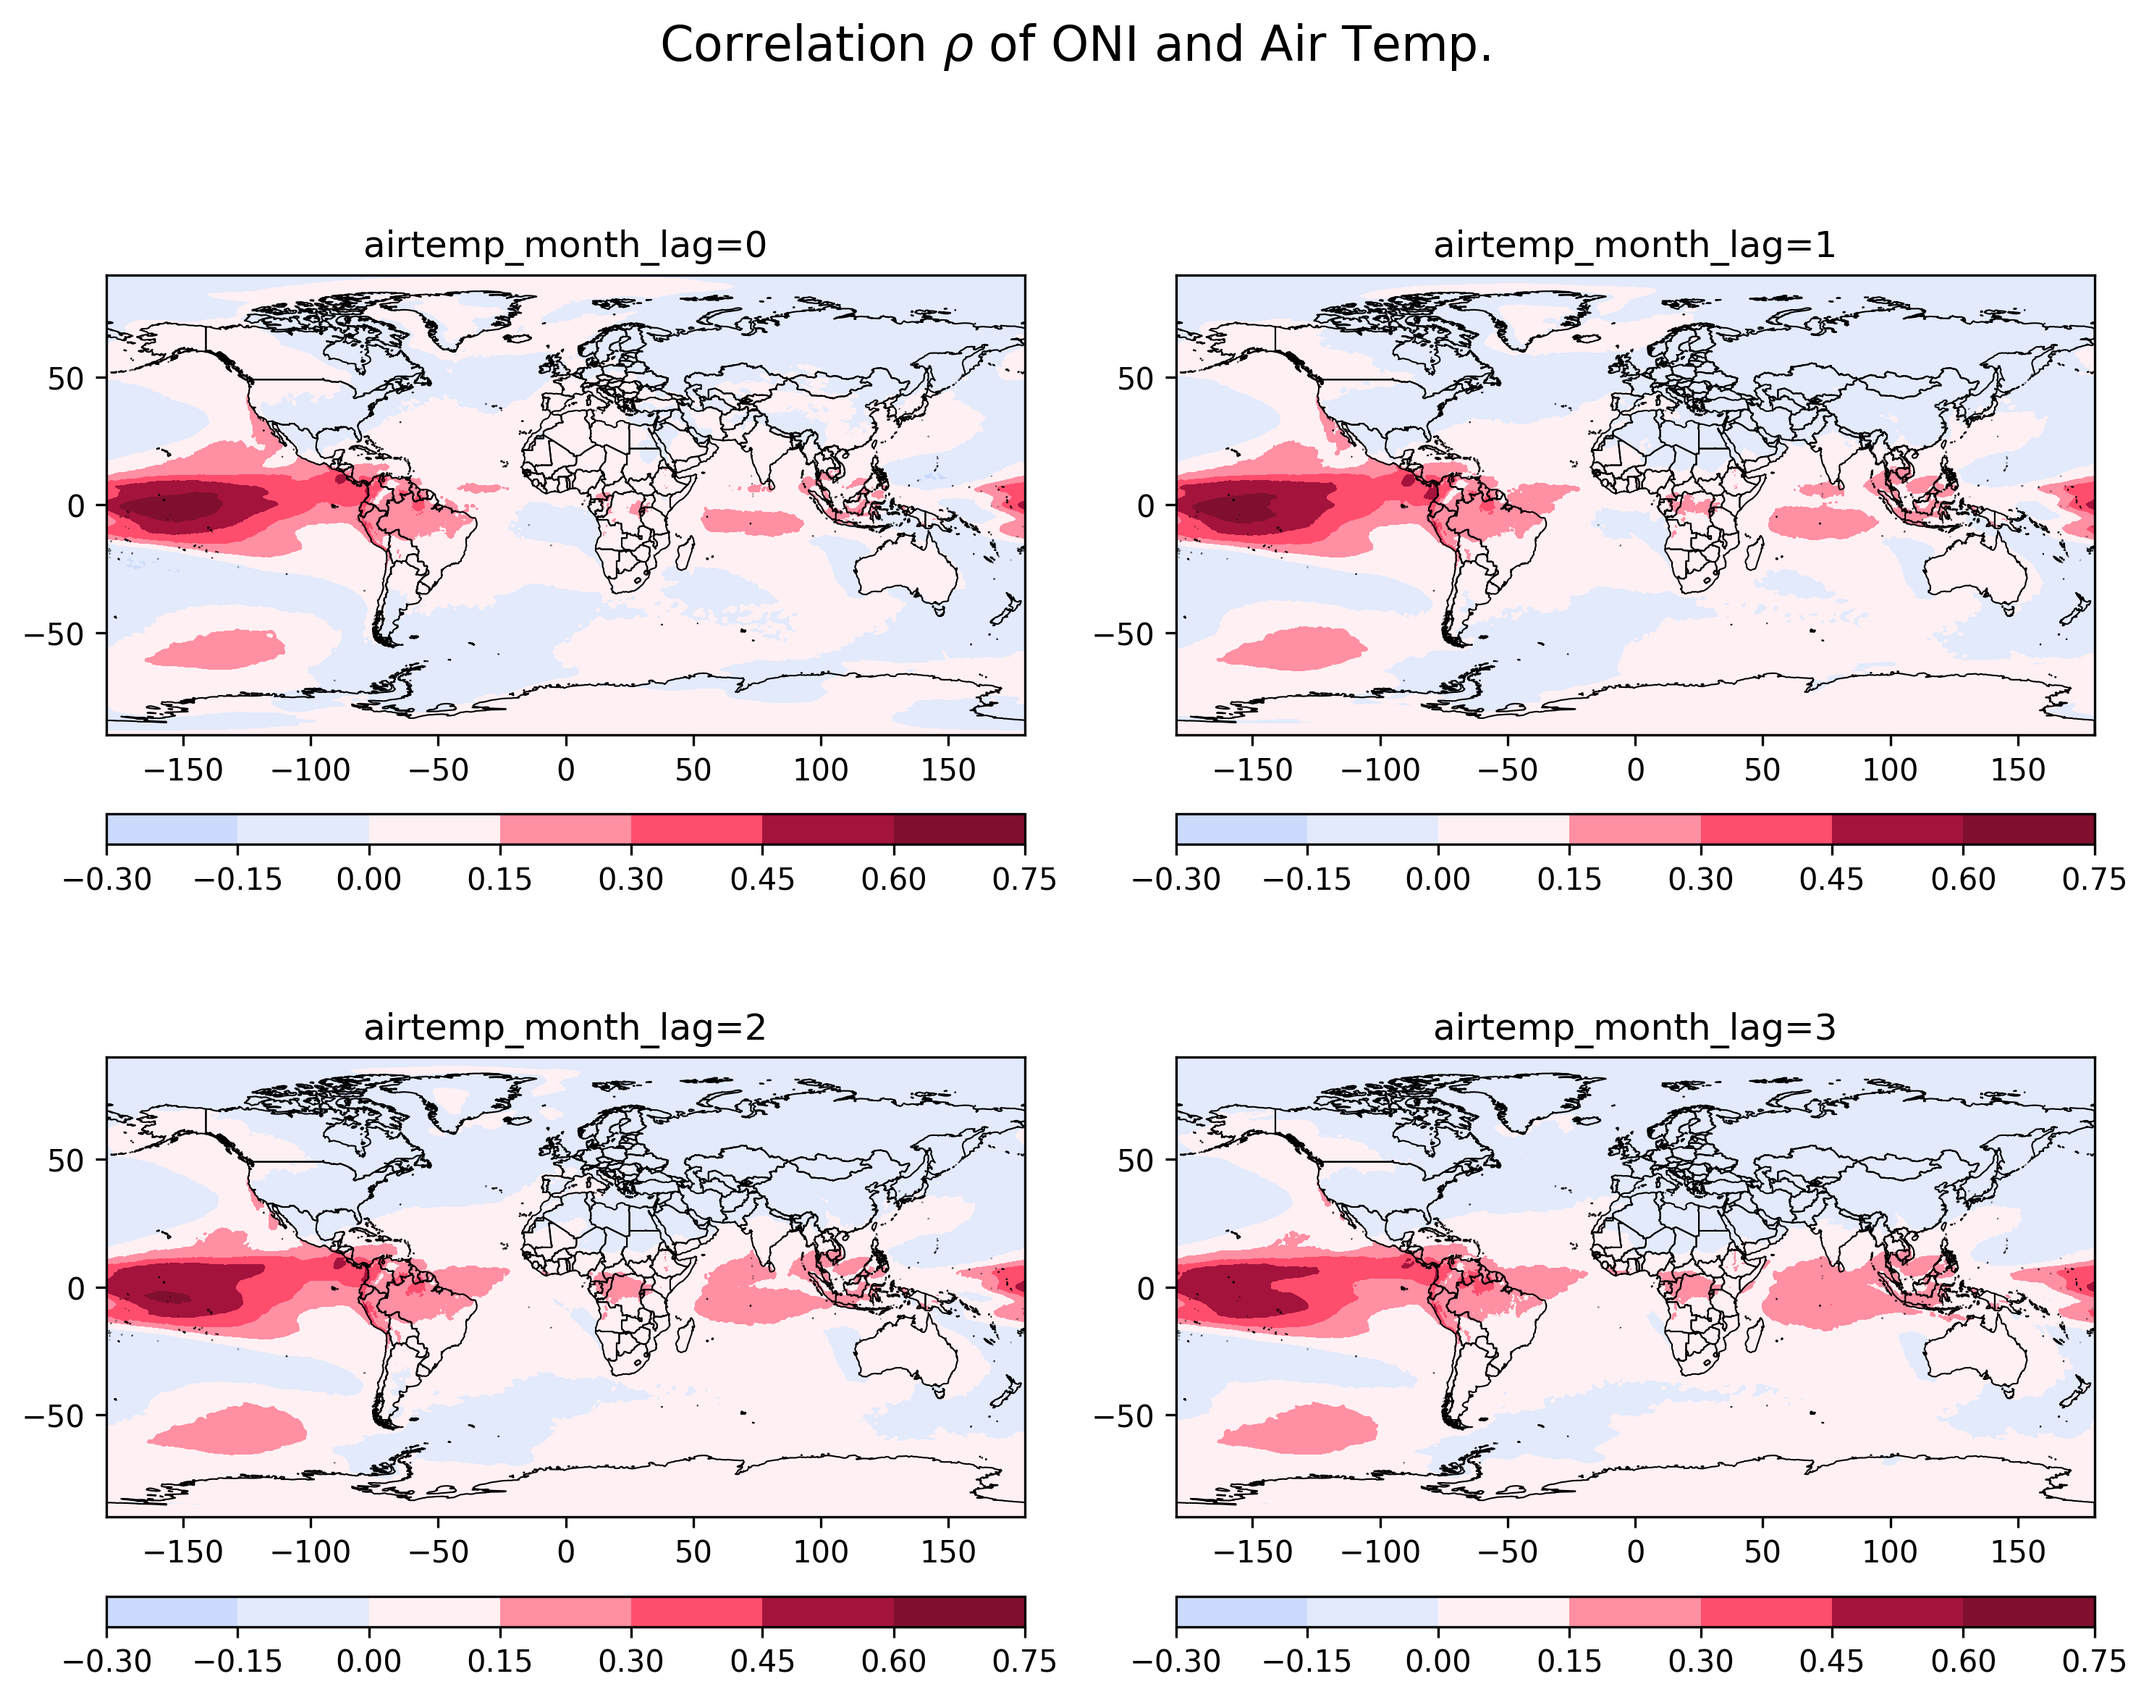
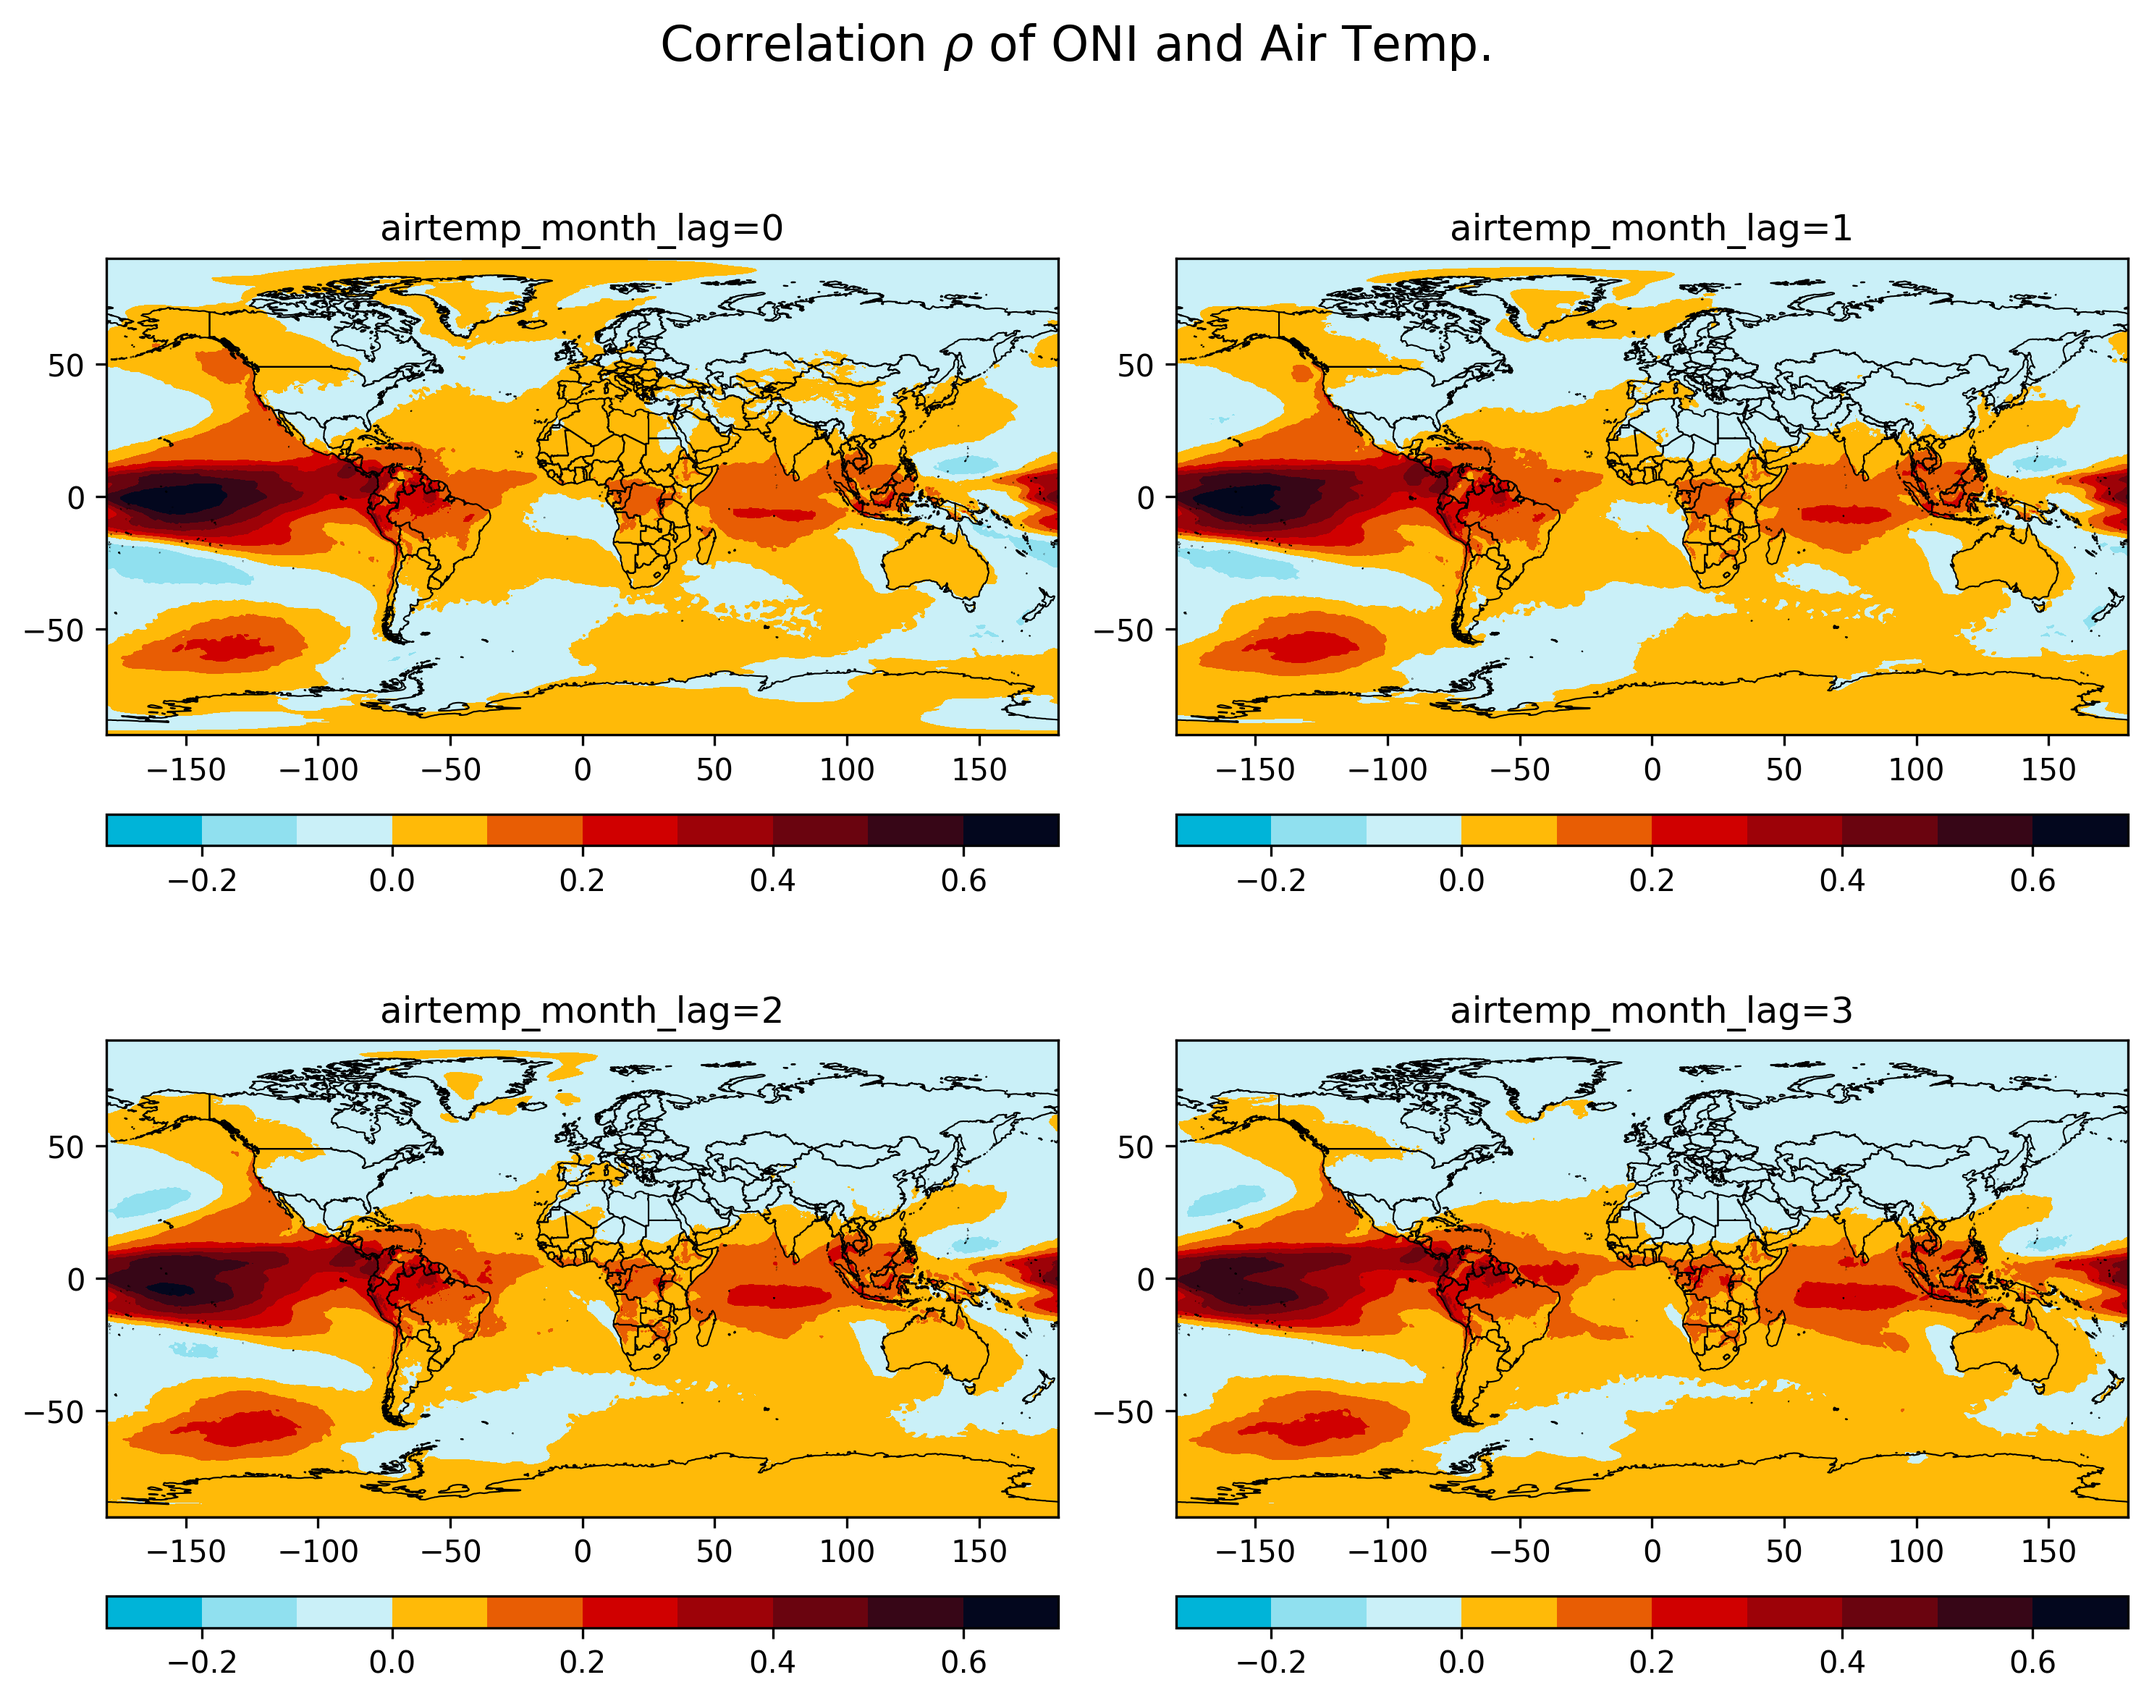
.

diff --git a/misc_plot_code/2x2_colormesh.py b/misc_plot_code/2x2_colormesh.py
@@ -49,8 +49,9 @@ gdf2 = gpd.read_file(path_maritime_0)
 vmin = np.max([np.min(variable0),np.min(variable1),np.min(variable2),np.min(variable3)])
 vmax = np.min([np.max(variable0),np.max(variable1),np.max(variable2),np.max(variable3)])
 maxval = np.max([np.abs(vmin), np.abs(vmax)])
-levels=np.arange(-0.3,+0.75,0.15) # this sets the colorbar levels
-colors = ['#ccdbfd', '#e2eafc', '#fff0f3','#ff8fa3', '#ff4d6d', '#a4133c', '#800f2f']
+levels=np.arange(-0.3,+0.80,0.10) # this sets the colorbar levels
+# colors = ['#ccdbfd', '#e2eafc', '#fff0f3','#ff8fa3', '#ff4d6d', '#a4133c', '#800f2f']
+colors = ['#00b4d8', '#90e0ef', '#caf0f8','#ffba08', '#e85d04', "#d00000", "#9d0208", '#6a040f', '#370617', '#03071e']
 
 fig, axs = plt.subplots(2, 2, figsize=(10, 8))
 
